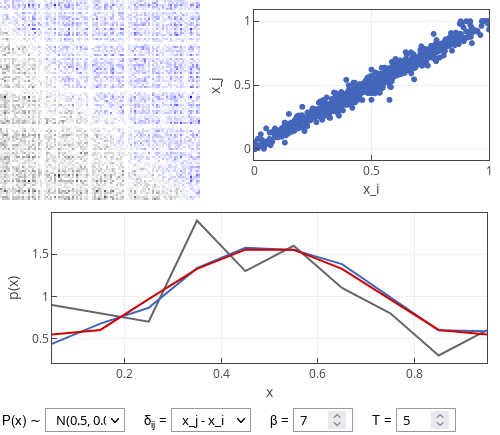
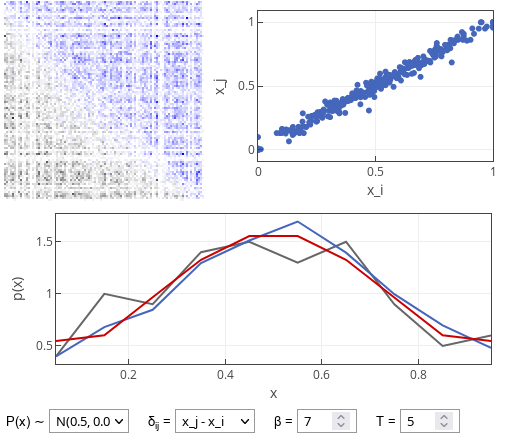
replace dating app model: polished draft

diff --git a/articles/2023/replace-model-dating-apps.md b/articles/2023/replace-model-dating-apps.md
@@ -1,19 +1,52 @@
-Title: Replace model of dating apps
+Title: Replacement model of dating apps
 Date: 2023-01-10 08:00
 Author: Aleksejus Kononovicius
 Tags: Interactive models, statistics, dating apps series, statistical physics
-Slug: replace-model-dating-apps
+Slug: replacement-model-dating-apps
 Status: draft
 Image_url: uploads/2023/dating-apps-replace.png
 
 In this post I [continue my
 exploration](/tag/dating-apps-series/) of the [cite id="Olmeda2022Dating"].
-In this post I will consider what happens if the users who were matched are
-replace by the random sample from the population. Will only the least and
+This time let us consider what happens if the users who were matched are
+replaced by a random sample from the population. Will only the least and
 most attractive ones remain unmatched?
 <!--more-->
 
+## Replacement model
+
+The replacement model is a logical extension of the [dropout
+model]({filename}/articles/2022/dropout-model-dating-apps.md). In this
+variation of the [original
+model]({filename}/articles/2022/statistical-physics-dating-apps.md) the
+agents who were matched are replaced by other new agents. The new agents are
+sampled from the same distribution from which initial population of agents
+was sampled.
+
+As we have seen in the [earlier
+post]({filename}/articles/2022/dynamic-model-dating-apps.md) the most
+attractive agents weren't the most matched agents. In fact, average agents
+were matched the most. So, based on this observation we would expect that
+least and most attractive agents would search for the match longer than the
+average users. Yet numerical simulation would indicate that this expectation
+is at least partially wrong.
+
+![results of replacement
+model]({static}/uploads/2022/dating-apps-replace.png "(lower figure)
+Comparison sample population (red curve), matched user population (blue
+curve) and the active user population (grey curve) match.")
+
+As we can see in the figure above three groups have similar distributions,
+although the active user attractiveness distribution seems to fluctuate a
+lot. One of the reasons is that there are just a relatively few active users
+(those using the dating app). Though I would speculate that there is another
+reason for the observed fluctuations - left-over extreme users.
+
 ## Interactive app
+
+This app is essentially identical to the one from the [previous
+posts]({filename}/articles/2022/dropout-model-dating-apps.md). The only
+addition is the replacement mechanism. Feel free to explore!
 
 [html5-interactive width="520" height="470" mode="iframe"
 url="/uploads/models/dating-apps/replace.html"]
